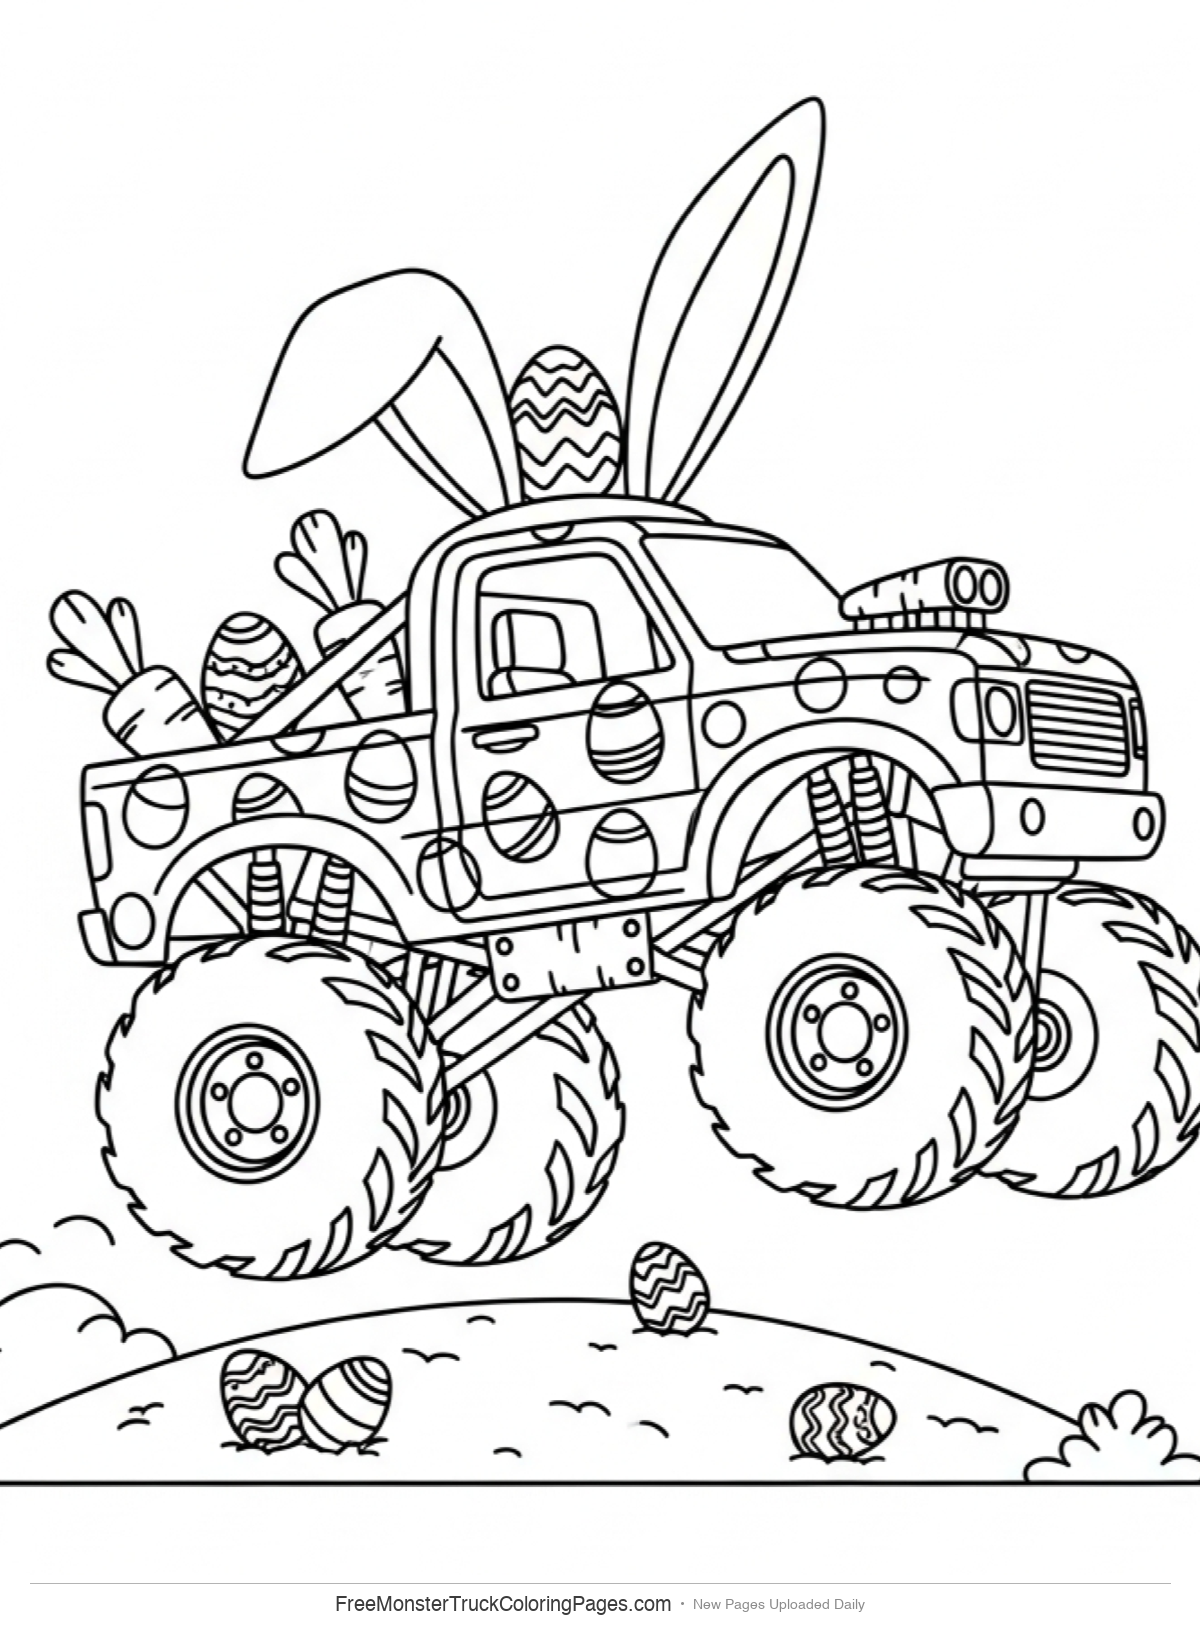
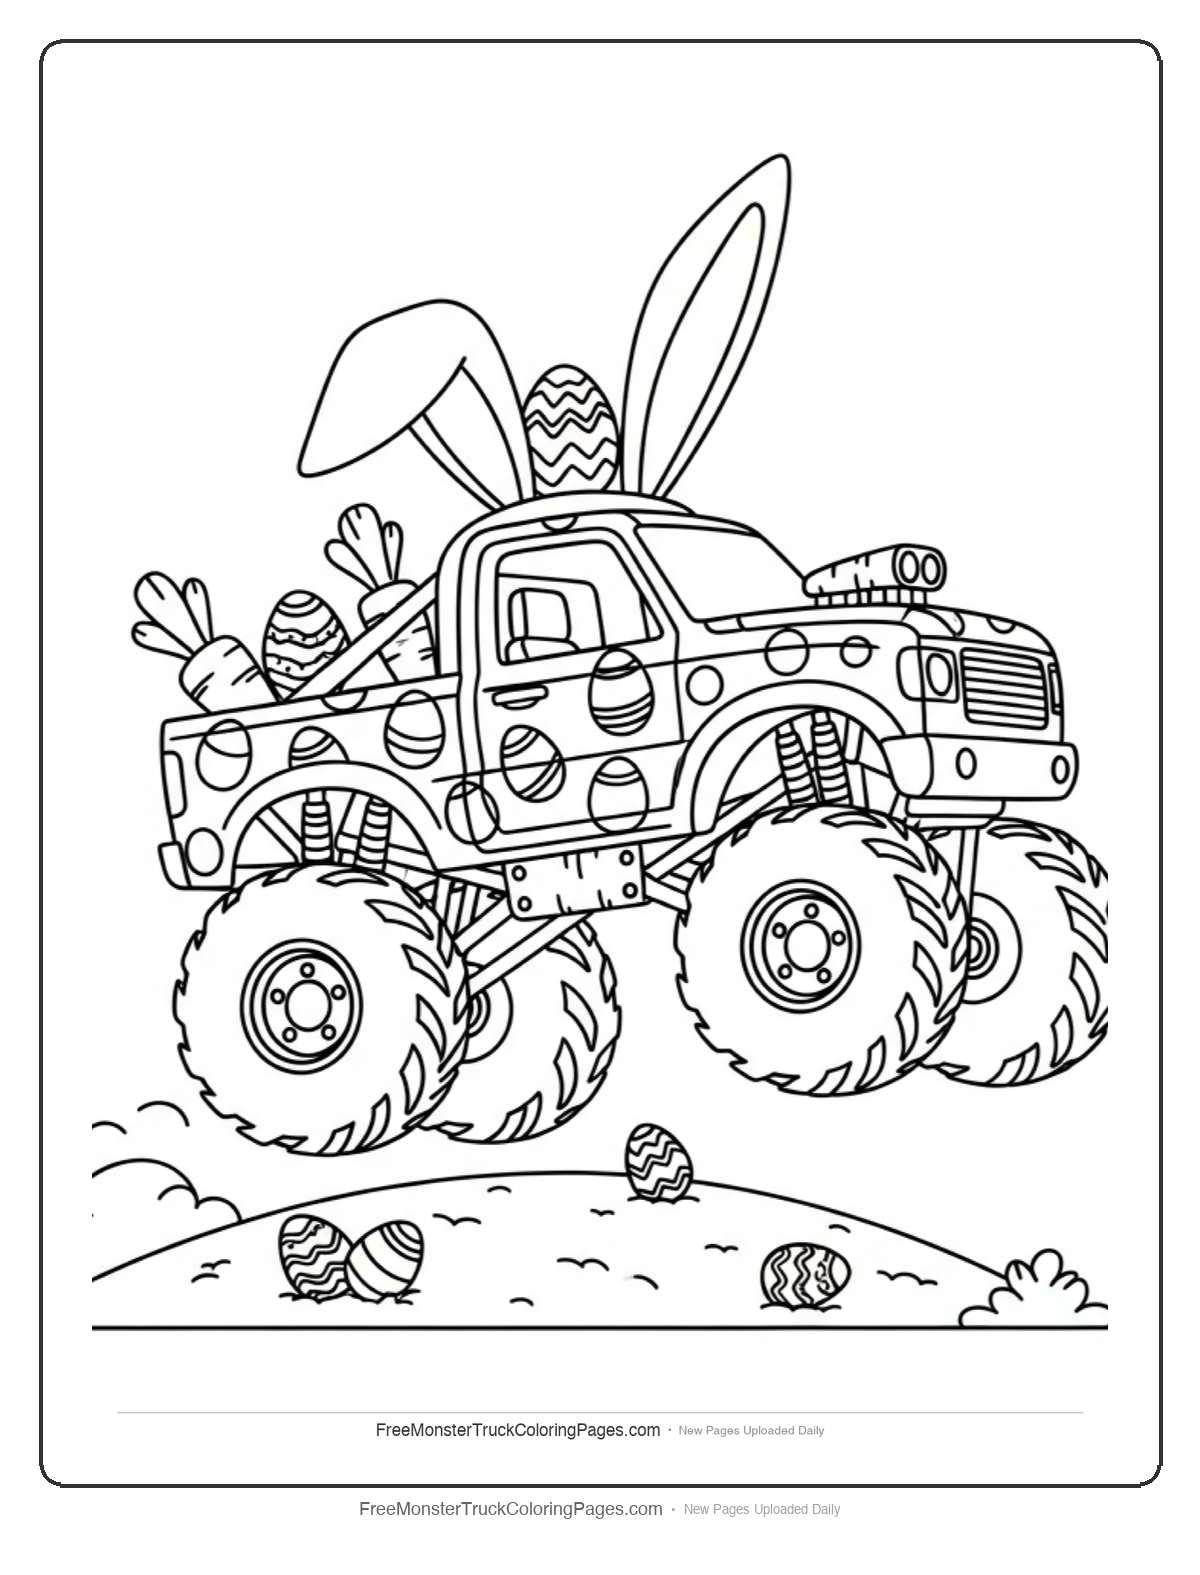
Replace edge check + watermark with decorative frame border
New approach: artwork is shrunk and placed inside a rounded rectangle
border frame — impossible for anything to be cut off, ever.

scripts/frame-image.py:
- Shrinks artwork to fit inside frame with padding
- Draws rounded rectangle border (dark gray, 4px)
- Adds watermark text below frame
- Output: 1200x1575 (US Letter at 150 DPI)

Replaces in autopilot pipeline:
- Removed pixel edge check (no longer needed)
- Removed resize-for-print (frame handles sizing)
- Removed watermark.py step (frame includes watermark)
- Simplified Imagen prompt (framing not its job anymore)

Reframed all 7 existing coloring pages.

Changed region(s): [[0.0, 0.0311, 1.0, 0.9956]]

diff --git a/src/lib/autopilot.ts b/src/lib/autopilot.ts
@@ -139,7 +139,7 @@ function getUpcomingHolidays(now: Date): string {
 // --- Image Generation + QC ---
 
 const BASE_IMAGEN_PROMPT =
-  "Black and white line art, coloring book style for young children ages 2-8, bold thick clean outlines only, very simple shapes, NO shading, NO gray fill, NO complex backgrounds, NO crowds, NO tiny details, NO text in image, pure white background. CRITICAL: Draw the entire subject SMALL, using only about 60% of the canvas, centered in the middle. There MUST be a THICK EMPTY WHITE BORDER around the entire drawing on ALL four sides. Imagine the drawing is a sticker placed in the center of a blank white page — nothing should come anywhere near the edges. Every single element of the drawing (all wheels, the roof, bumpers, accessories, ground elements) must be COMPLETELY visible and FULLY contained well inside the frame. Absolutely nothing should be cut off, cropped, or touching any edge.";
+  "Black and white line art, coloring book style for young children ages 2-8, bold thick clean outlines only, simple shapes, NO shading, NO gray fill, NO complex backgrounds, NO crowds, NO tiny details, NO text in image, white background. The complete subject should be fully visible in the image.";
 
 async function generateImage(prompt: string): Promise<Buffer> {
   const fullPrompt = `${prompt} ${BASE_IMAGEN_PROMPT}`;
@@ -195,22 +195,19 @@ async function qcImage(imagePath: string): Promise<{ pass: boolean; score: numbe
   };
 }
 
-function pixelEdgeCheck(imagePath: string): boolean {
-  // If artwork touches/extends past edges, the drawing is INCOMPLETE.
-  // It must be regenerated — shrinking an incomplete drawing is not acceptable.
-  const pyScript = path.join(process.cwd(), "scripts", "edge-check.py");
-
+function applyFrame(imagePath: string) {
+  // Frame the artwork inside a decorative border — guarantees nothing is cut off.
+  // The frame shrinks the artwork and places it inside a rounded rectangle border
+  // with a watermark below. This replaces edge checking entirely.
+  const frameScript = path.join(process.cwd(), "scripts", "frame-image.py");
   try {
-    const result = execSync(`python3 "${pyScript}" "${imagePath}"`, {
+    execSync(`python3 "${frameScript}" "${imagePath}"`, {
       encoding: "utf-8",
       timeout: 30000,
-    }).trim();
-    console.log(`[autopilot] Edge check: ${result}`);
-    return result === "PASS";
+    });
+    console.log("[autopilot] Frame applied");
   } catch (err) {
-    const output = err instanceof Error && "stdout" in err ? String((err as { stdout: unknown }).stdout) : "";
-    console.log(`[autopilot] Edge check FAIL (artwork incomplete, must regenerate): ${output}`);
-    return false;
+    console.log(`[autopilot] Frame failed: ${err}`);
   }
 }
 
@@ -322,13 +319,7 @@ export async function generateAndPublishPage(): Promise<PipelineResult> {
       console.log(`[autopilot] QC score: ${qc.score}/10 ${qc.pass ? "PASS" : "FAIL"}`);
 
       if (qc.pass) {
-        // Pixel edge check
-        const edgeOk = pixelEdgeCheck(imagePath);
-        if (edgeOk) {
-          qcPassed = true;
-        } else {
-          console.log("[autopilot] Pixel edge check failed, retrying...");
-        }
+        qcPassed = true;
       }
     } catch (err) {
       console.log(`[autopilot] QC check failed: ${err}`);
@@ -353,11 +344,10 @@ export async function generateAndPublishPage(): Promise<PipelineResult> {
   const { difficulty, ageRange } = gradeDifficulty(imagePath);
   console.log(`[autopilot] Difficulty: ${difficulty} (${ageRange})`);
 
-  // Step 4: Print-fit resize + watermark
-  console.log("[autopilot] Resizing and watermarking...");
-  resizeForPrint(imagePath);
+  // Step 4: Frame the artwork (border + watermark — guarantees nothing cut off)
+  console.log("[autopilot] Framing artwork...");
+  applyFrame(imagePath);
   fs.copyFileSync(imagePath, thumbPath);
-  applyWatermark(imageName);
 
   // Step 5: Create the page entry
   const now = new Date().toISOString();

diff --git a/scripts/frame-image.py b/scripts/frame-image.py
@@ -1,0 +1,165 @@
+"""
+Frame a coloring page image with a decorative border + watermark.
+Guarantees the artwork is fully contained — nothing gets cut off.
+
+Process:
+1. Shrink artwork to fit inside frame with padding
+2. Draw a rounded rectangle border around it
+3. Add watermark text below the frame
+
+Usage:
+  python3 scripts/frame-image.py image.png
+  python3 scripts/frame-image.py skull-crusher    (looks in coloring-pages dir)
+"""
+import sys
+import os
+import glob
+from PIL import Image, ImageDraw, ImageFont
+
+IMAGES_DIR = os.path.join(os.path.dirname(__file__), "..", "public", "images", "coloring-pages")
+
+# Output dimensions (US Letter portrait at 150 DPI)
+CANVAS_WIDTH = 1200
+CANVAS_HEIGHT = 1575
+
+# Frame settings
+FRAME_MARGIN = 40          # Space from canvas edge to frame border
+FRAME_CORNER_RADIUS = 20   # Rounded corner radius
+FRAME_LINE_WIDTH = 4       # Border line thickness
+FRAME_COLOR = (50, 50, 50) # Dark gray border
+
+# Artwork padding inside the frame
+ART_PADDING = 30           # Space between frame border and artwork
+
+# Watermark below frame
+WATERMARK_SITE = "FreeMonsterTruckColoringPages.com"
+WATERMARK_TAGLINE = "New Pages Uploaded Daily"
+WATERMARK_HEIGHT = 50      # Space reserved below frame for watermark
+WATERMARK_COLOR = (100, 100, 100)
+WATERMARK_LIGHT = (160, 160, 160)
+
+
+def get_font(size):
+    font_paths = [
+        "/System/Library/Fonts/Helvetica.ttc",
+        "/Library/Fonts/Arial.ttf",
+        "/usr/share/fonts/truetype/dejavu/DejaVuSans-Bold.ttf",
+        "/usr/share/fonts/truetype/dejavu/DejaVuSans.ttf",
+    ]
+    for fp in font_paths:
+        if os.path.exists(fp):
+            try:
+                return ImageFont.truetype(fp, size)
+            except Exception:
+                continue
+    return ImageFont.load_default()
+
+
+def rounded_rectangle(draw, xy, radius, outline, width):
+    """Draw a rounded rectangle."""
+    x0, y0, x1, y1 = xy
+    r = radius
+
+    # Four straight edges
+    draw.line([(x0 + r, y0), (x1 - r, y0)], fill=outline, width=width)  # top
+    draw.line([(x0 + r, y1), (x1 - r, y1)], fill=outline, width=width)  # bottom
+    draw.line([(x0, y0 + r), (x0, y1 - r)], fill=outline, width=width)  # left
+    draw.line([(x1, y0 + r), (x1, y1 - r)], fill=outline, width=width)  # right
+
+    # Four corners
+    draw.arc([(x0, y0), (x0 + 2*r, y0 + 2*r)], 180, 270, fill=outline, width=width)
+    draw.arc([(x1 - 2*r, y0), (x1, y0 + 2*r)], 270, 360, fill=outline, width=width)
+    draw.arc([(x0, y1 - 2*r), (x0 + 2*r, y1)], 90, 180, fill=outline, width=width)
+    draw.arc([(x1 - 2*r, y1 - 2*r), (x1, y1)], 0, 90, fill=outline, width=width)
+
+
+def frame_image(img_path):
+    """Frame artwork with border and watermark."""
+    artwork = Image.open(img_path).convert("RGB")
+
+    # Calculate frame interior dimensions
+    frame_x0 = FRAME_MARGIN
+    frame_y0 = FRAME_MARGIN
+    frame_x1 = CANVAS_WIDTH - FRAME_MARGIN
+    frame_y1 = CANVAS_HEIGHT - FRAME_MARGIN - WATERMARK_HEIGHT
+
+    interior_w = frame_x1 - frame_x0 - (ART_PADDING * 2) - FRAME_LINE_WIDTH
+    interior_h = frame_y1 - frame_y0 - (ART_PADDING * 2) - FRAME_LINE_WIDTH
+
+    # Shrink artwork to fit inside frame interior
+    art_w, art_h = artwork.size
+    scale = min(interior_w / art_w, interior_h / art_h)
+    new_w = int(art_w * scale)
+    new_h = int(art_h * scale)
+    artwork = artwork.resize((new_w, new_h), Image.LANCZOS)
+
+    # Create white canvas
+    canvas = Image.new("RGB", (CANVAS_WIDTH, CANVAS_HEIGHT), (255, 255, 255))
+
+    # Center artwork inside frame
+    art_x = frame_x0 + ART_PADDING + FRAME_LINE_WIDTH // 2 + (interior_w - new_w) // 2
+    art_y = frame_y0 + ART_PADDING + FRAME_LINE_WIDTH // 2 + (interior_h - new_h) // 2
+    canvas.paste(artwork, (art_x, art_y))
+
+    # Draw frame border
+    draw = ImageDraw.Draw(canvas)
+    rounded_rectangle(
+        draw,
+        (frame_x0, frame_y0, frame_x1, frame_y1),
+        radius=FRAME_CORNER_RADIUS,
+        outline=FRAME_COLOR,
+        width=FRAME_LINE_WIDTH,
+    )
+
+    # Draw watermark below frame
+    url_font = get_font(18)
+    tagline_font = get_font(13)
+
+    url_bbox = draw.textbbox((0, 0), WATERMARK_SITE, font=url_font)
+    url_w = url_bbox[2] - url_bbox[0]
+
+    sep = "  \u2022  "
+    sep_bbox = draw.textbbox((0, 0), sep, font=tagline_font)
+    sep_w = sep_bbox[2] - sep_bbox[0]
+
+    tag_bbox = draw.textbbox((0, 0), WATERMARK_TAGLINE, font=tagline_font)
+    tag_w = tag_bbox[2] - tag_bbox[0]
+
+    total_w = url_w + sep_w + tag_w
+    start_x = (CANVAS_WIDTH - total_w) // 2
+    text_y = frame_y1 + (WATERMARK_HEIGHT - 18) // 2
+
+    draw.text((start_x, text_y), WATERMARK_SITE, fill=WATERMARK_COLOR, font=url_font)
+    draw.text((start_x + url_w, text_y + 2), sep, fill=WATERMARK_LIGHT, font=tagline_font)
+    draw.text((start_x + url_w + sep_w, text_y + 2), WATERMARK_TAGLINE, fill=WATERMARK_LIGHT, font=tagline_font)
+
+    canvas.save(img_path, "PNG", optimize=True)
+    return CANVAS_WIDTH, CANVAS_HEIGHT
+
+
+def main():
+    specific = sys.argv[1] if len(sys.argv) > 1 else None
+
+    if specific:
+        # Check if it's a full path or just a name
+        if os.path.exists(specific):
+            files = [specific]
+        else:
+            files = sorted(glob.glob(os.path.join(IMAGES_DIR, f"{specific}*.png")))
+    else:
+        files = sorted(glob.glob(os.path.join(IMAGES_DIR, "*.png")))
+
+    if not files:
+        print("No images found")
+        return
+
+    for f in files:
+        name = os.path.basename(f)
+        w, h = frame_image(f)
+        print(f"  Framed: {name} ({w}x{h})")
+
+    print(f"\nDone! {len(files)} image(s) framed.")
+
+
+if __name__ == "__main__":
+    main()
